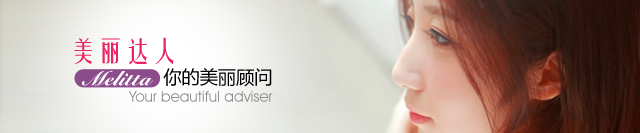
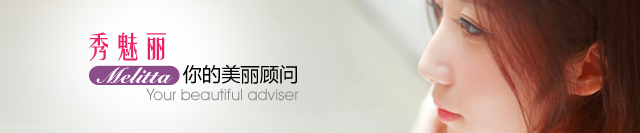
Updated with the newest UI resources

diff --git a/BeautifulDaRen/View/Common/AdsPageView.m b/BeautifulDaRen/View/Common/AdsPageView.m
@@ -107,16 +107,16 @@
     [adsDragGesture release];
     
     // TODO: get it from server
-    _adsImageNames = [[NSMutableArray alloc] initWithObjects:@"home_banner3.jpg",
-                      @"home_banner4.jpg",
+    _adsImageNames = [[NSMutableArray alloc] initWithObjects:@"home_banner3",
+                      @"home_banner4",
                       @"banner",
                       @"home_banner2",
                       nil];
-    _firstImageView = [[UIImageView alloc] initWithImage:[UIImage imageNamed:@"home_banner3.jpg"]];
+    _firstImageView = [[UIImageView alloc] initWithImage:[UIImage imageNamed:@"home_banner3"]];
     _firstImageView.frame = CGRectMake(0, 0, ADS_CELL_WIDTH, ADS_CELL_HEIGHT);
     [self.view insertSubview:_firstImageView belowSubview:self.adsPageController];
     
-    _secondImageView = [[UIImageView alloc] initWithImage:[UIImage imageNamed:@"home_banner4.jpg"]];
+    _secondImageView = [[UIImageView alloc] initWithImage:[UIImage imageNamed:@"home_banner4"]];
     _secondImageView.frame = CGRectMake(0, 0, ADS_CELL_WIDTH, ADS_CELL_HEIGHT);
     [self.view insertSubview:_secondImageView belowSubview:self.adsPageController];
     [_secondImageView setHidden:YES];
@@ -228,10 +228,14 @@
 //            NSLog(@"sign in done = %d", status);
 //            [[iToast makeText:[NSString stringWithFormat:@"%@", [data objectForKey:@"msg"]]] show];
 //        }];
-    [[BSDKManager sharedManager] getWeiboListByUsername:nil pageSize:20 pageIndex:1 andDoneCallback:^(AIO_STATUS status, NSDictionary *data) {
-        NSLog(@"sign in done = %d", status);
-        [[iToast makeText:[NSString stringWithFormat:@"%@", [data description]]] show];
-    }];
+//    [[BSDKManager sharedManager] getWeiboListByUsername:nil pageSize:20 pageIndex:1 andDoneCallback:^(AIO_STATUS status, NSDictionary *data) {
+//        NSLog(@"sign in done = %d", status);
+//        [[iToast makeText:[NSString stringWithFormat:@"%@", [data description]]] show];
+//    }];
+        [[BSDKManager sharedManager] getWeiboClassesWithDoneCallback:^(AIO_STATUS status, NSDictionary *data) {
+            NSLog(@"sign in done = %d", status);
+            [[iToast makeText:[NSString stringWithFormat:@"%@", [data description]]] show];
+        }];
     }
 
 //    [[BSDKManager sharedManager] getUserInforByUsername:K_BSDK_TEST_USERNAME andDoneCallback:^(AIO_STATUS status, NSDictionary *data) {

diff --git a/BeautifulDaRen/View/Category/SelectCategoryViewController.m b/BeautifulDaRen/View/Category/SelectCategoryViewController.m
@@ -14,8 +14,6 @@
 #define MAX_CHECK_CATEGOROIES_COUNT 2
 
 @interface SelectCategoryViewController ()
-
-@property (nonatomic, retain) NSArray * categoryListData;
 @property (nonatomic, retain) NSMutableArray * categorySelectState;
 
 -(NSInteger)getCheckedCategoriesCount;
@@ -28,7 +26,14 @@
 @synthesize categoryListData = _categoryListData;
 @synthesize categorySelectState = _categorySelectState;
 @synthesize delegate;
-
+@synthesize category1 = _category1;
+@synthesize category2 = _category2;
+@synthesize category3 = _category3;
+@synthesize category4 = _category4;
+@synthesize category5 = _category5;
+@synthesize category6 = _category6;
+@synthesize category7 = _category7;
+@synthesize category8 = _category8;
 
 - (id)initWithNibName:(NSString *)nibNameOrNil bundle:(NSBundle *)nibBundleOrNil
 {
@@ -78,6 +83,15 @@
     [_categoryListData release];
     [_categoryListTableView release];
     [_categorySelectState release];
+    
+    [_category1 release];
+    [_category2 release];
+    [_category3 release];
+    [_category4 release];
+    [_category5 release];
+    [_category6 release];
+    [_category7 release];
+    [_category8 release];
 }
 
 - (void)viewDidLoad
@@ -94,6 +108,15 @@
     [self setCategoryListData:nil];
     [self setCategoryListTableView:nil];
     [self setCategorySelectState:nil];
+    
+    [self setCategory1:nil];
+    [self setCategory2:nil];
+    [self setCategory3:nil];
+    [self setCategory4:nil];
+    [self setCategory5:nil];
+    [self setCategory6:nil];
+    [self setCategory7:nil];
+    [self setCategory8:nil];
 }
 
 - (BOOL)shouldAutorotateToInterfaceOrientation:(UIInterfaceOrientation)interfaceOrientation

diff --git a/BeautifulDaRen/View/Weibo/WeiboComposerViewController.m b/BeautifulDaRen/View/Weibo/WeiboComposerViewController.m
@@ -42,6 +42,7 @@
 @property (nonatomic, retain) NSString * locationString;
 
 - (void)setContentFrame:(CGRect)frame;
+- (void)startSelectCategoryViewWithData:(NSArray*)categories;
 @end
 
 @implementation WeiboComposerViewController
@@ -458,10 +459,11 @@
     //TODO:
 }
 
-- (IBAction)onCategoryPressed:(id)sender
+- (void)startSelectCategoryViewWithData:(NSArray*)categories
 {
     SelectCategoryViewController *categorySelectionController = 
     [[SelectCategoryViewController alloc] initWithNibName:nil bundle:nil];
+    categorySelectionController.categoryListData = categories;
     categorySelectionController.delegate = self;
     UINavigationController * navController = [[UINavigationController alloc] initWithRootViewController: categorySelectionController];
     
@@ -469,6 +471,23 @@
     
     [navController release];
     [categorySelectionController release];
+}
+
+- (IBAction)onCategoryPressed:(id)sender
+{
+    
+    NSArray * categories = [[NSUserDefaults standardUserDefaults] valueForKey:USERDEFAULT_CATEGORY];
+    if (categories) {
+        [self startSelectCategoryViewWithData:categories];
+    }
+    else
+    {
+        [[BSDKManager sharedManager] getWeiboClassesWithDoneCallback:^(AIO_STATUS status, NSDictionary *data) {
+            // TODO: set to defautls
+        }];
+    }
+    
+
 }
 
 - (IBAction)onSinaPressed:(id)sender

diff --git a/BeautifulDaRen/Controller/BeautifulDaRen/BSDKManager.m b/BeautifulDaRen/Controller/BeautifulDaRen/BSDKManager.m
@@ -291,6 +291,22 @@ static BSDKManager *sharedInstance;
 
 #pragma mark Weibo related APIs
 
+- (void)getWeiboClassesWithDoneCallback:(processDoneWithDictBlock)callback
+{
+    NSMutableDictionary *params = [NSMutableDictionary dictionaryWithCapacity:4];
+    
+    [params setObject:K_BSDK_CATEGORY_BLOG forKey:K_BSDK_CATEGORY];
+    [params setObject:K_BSDK_ACTION_GETCLASSLIST forKey:K_BSDK_ACTION];
+
+    [self sendRequestWithMethodName:nil
+                         httpMethod:@"POST" 
+                             params:params 
+                       postDataType:kBSDKRequestPostDataTypeNormal
+                   httpHeaderFields:nil
+                       doneCallback:callback];
+    
+}
+
 - (void)getWeiboListByUsername:(NSString*)username
                       pageSize:(NSInteger)pageSize 
                      pageIndex:(NSInteger)pageIndex 

diff --git a/BeautifulDaRen/View/Category/SelectCategoryViewController.h b/BeautifulDaRen/View/Category/SelectCategoryViewController.h
@@ -15,6 +15,16 @@
 @interface SelectCategoryViewController : UIViewController <UITableViewDelegate, UITableViewDataSource>
 @property (nonatomic, retain) IBOutlet UITableView * categoryListTableView;
 @property (nonatomic, assign) id<SelectCategoryProtocol> delegate;
+@property (nonatomic, retain) NSArray * categoryListData;
+
+@property (nonatomic, retain) UILabel * category1;
+@property (nonatomic, retain) UILabel * category2;
+@property (nonatomic, retain) UILabel * category3;
+@property (nonatomic, retain) UILabel * category4;
+@property (nonatomic, retain) UILabel * category5;
+@property (nonatomic, retain) UILabel * category6;
+@property (nonatomic, retain) UILabel * category7;
+@property (nonatomic, retain) UILabel * category8;
 
 -(IBAction)onCheckBoxPressed:(UIButton*)sender;
 @end

diff --git a/BeautifulDaRen/View/Common/ViewConstants.h b/BeautifulDaRen/View/Common/ViewConstants.h
@@ -18,8 +18,8 @@
 #define CONTENT_MARGIN              (5.0)
 
 
-#define NAVIGATION_LEFT_LOGO_WIDTH (100.0)
-#define NAVIGATION_LEFT_LOGO_HEIGHT (25.0)
+#define NAVIGATION_LEFT_LOGO_WIDTH (90.0)
+#define NAVIGATION_LEFT_LOGO_HEIGHT (27.0)
 
 #define SCROLL_ITEM_MARGIN      (11.0)
 #define SCROLL_ITEM_WIDTH       (66.0)
@@ -80,5 +80,7 @@
 #define USERDEFAULT_ACCOUNT_FAVORITE_COUNT @"USERDEFAULT_ACCOUNT_FAVORITE_COUNT"
 #define USERDEFAULT_ACCOUNT_PRIVATE_MSG_COUNT @"USERDEFAULT_ACCOUNT_PRIVATE_MSG_COUNT"
 #define USERDEFAULT_ACCOUNT_TOPIC_COUNT @"USERDEFAULT_ACCOUNT_TOPIC_COUNT"
+
+#define USERDEFAULT_CATEGORY @"USERDEFAULT_CATEGORY"
 
 #endif

diff --git a/BeautifulDaRen/Controller/BeautifulDaRen/BeautifulDaRenSDK/BSDKDefines.h b/BeautifulDaRen/Controller/BeautifulDaRen/BeautifulDaRenSDK/BSDKDefines.h
@@ -29,6 +29,9 @@
 #define K_BSDK_ACTION_DELETE @"Del"
 #define K_BSDK_ACTION_PERIPHERAL @"Peripheral"
 
+#define K_BSDK_ACTION_GETCLASSLIST @"GetClassList"
+#define K_BSDK_ACTION_GETCLASSBYID @"GetClassById"
+
 #define K_BSDK_ACTION_FOLLOW @"PayAttention"
 #define K_BSDK_ACTION_UNFOLLOW @"CancelAttention"
 #define K_BSDK_ACTION_GETFOLLOWLIST @"GetAttentionList"

diff --git a/BeautifulDaRen/Controller/BeautifulDaRen/BSDKManager.h b/BeautifulDaRen/Controller/BeautifulDaRen/BSDKManager.h
@@ -61,6 +61,8 @@
                      pageIndex:(NSInteger)pageIndex 
                andDoneCallback:(processDoneWithDictBlock)callback;
 
+- (void)getWeiboClassesWithDoneCallback:(processDoneWithDictBlock)callback;
+
 - (void)followUser:(NSString*)username
    andDoneCallback:(processDoneWithDictBlock)callback;
 
